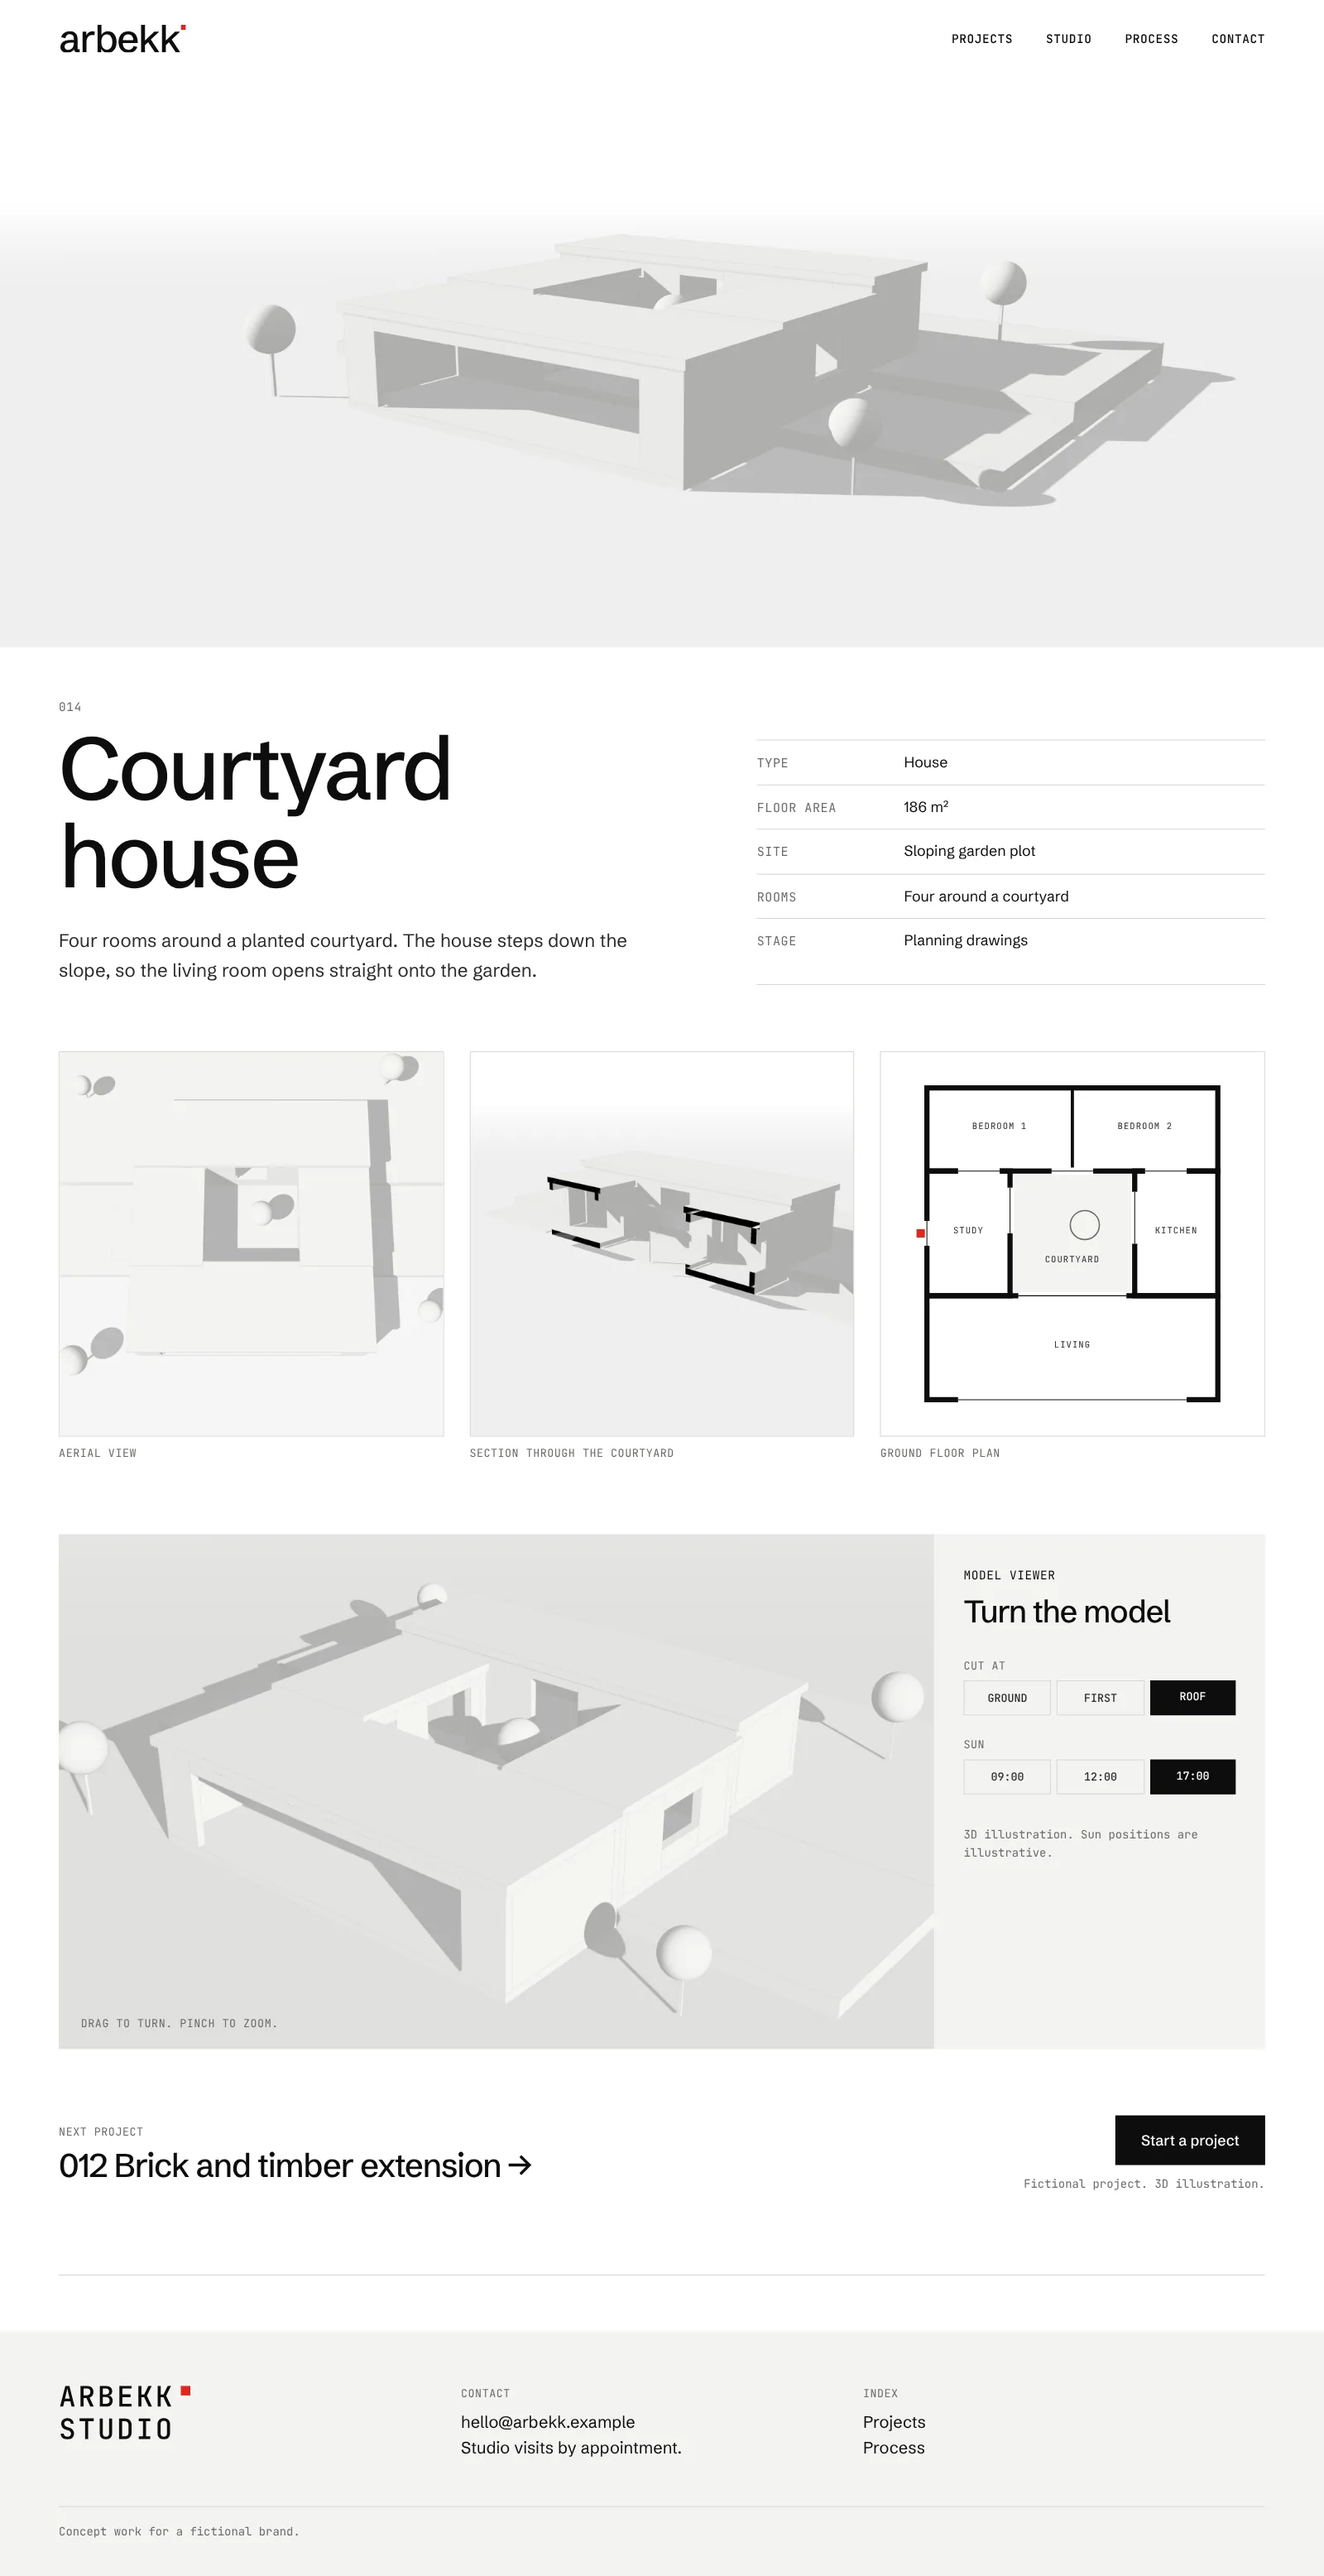
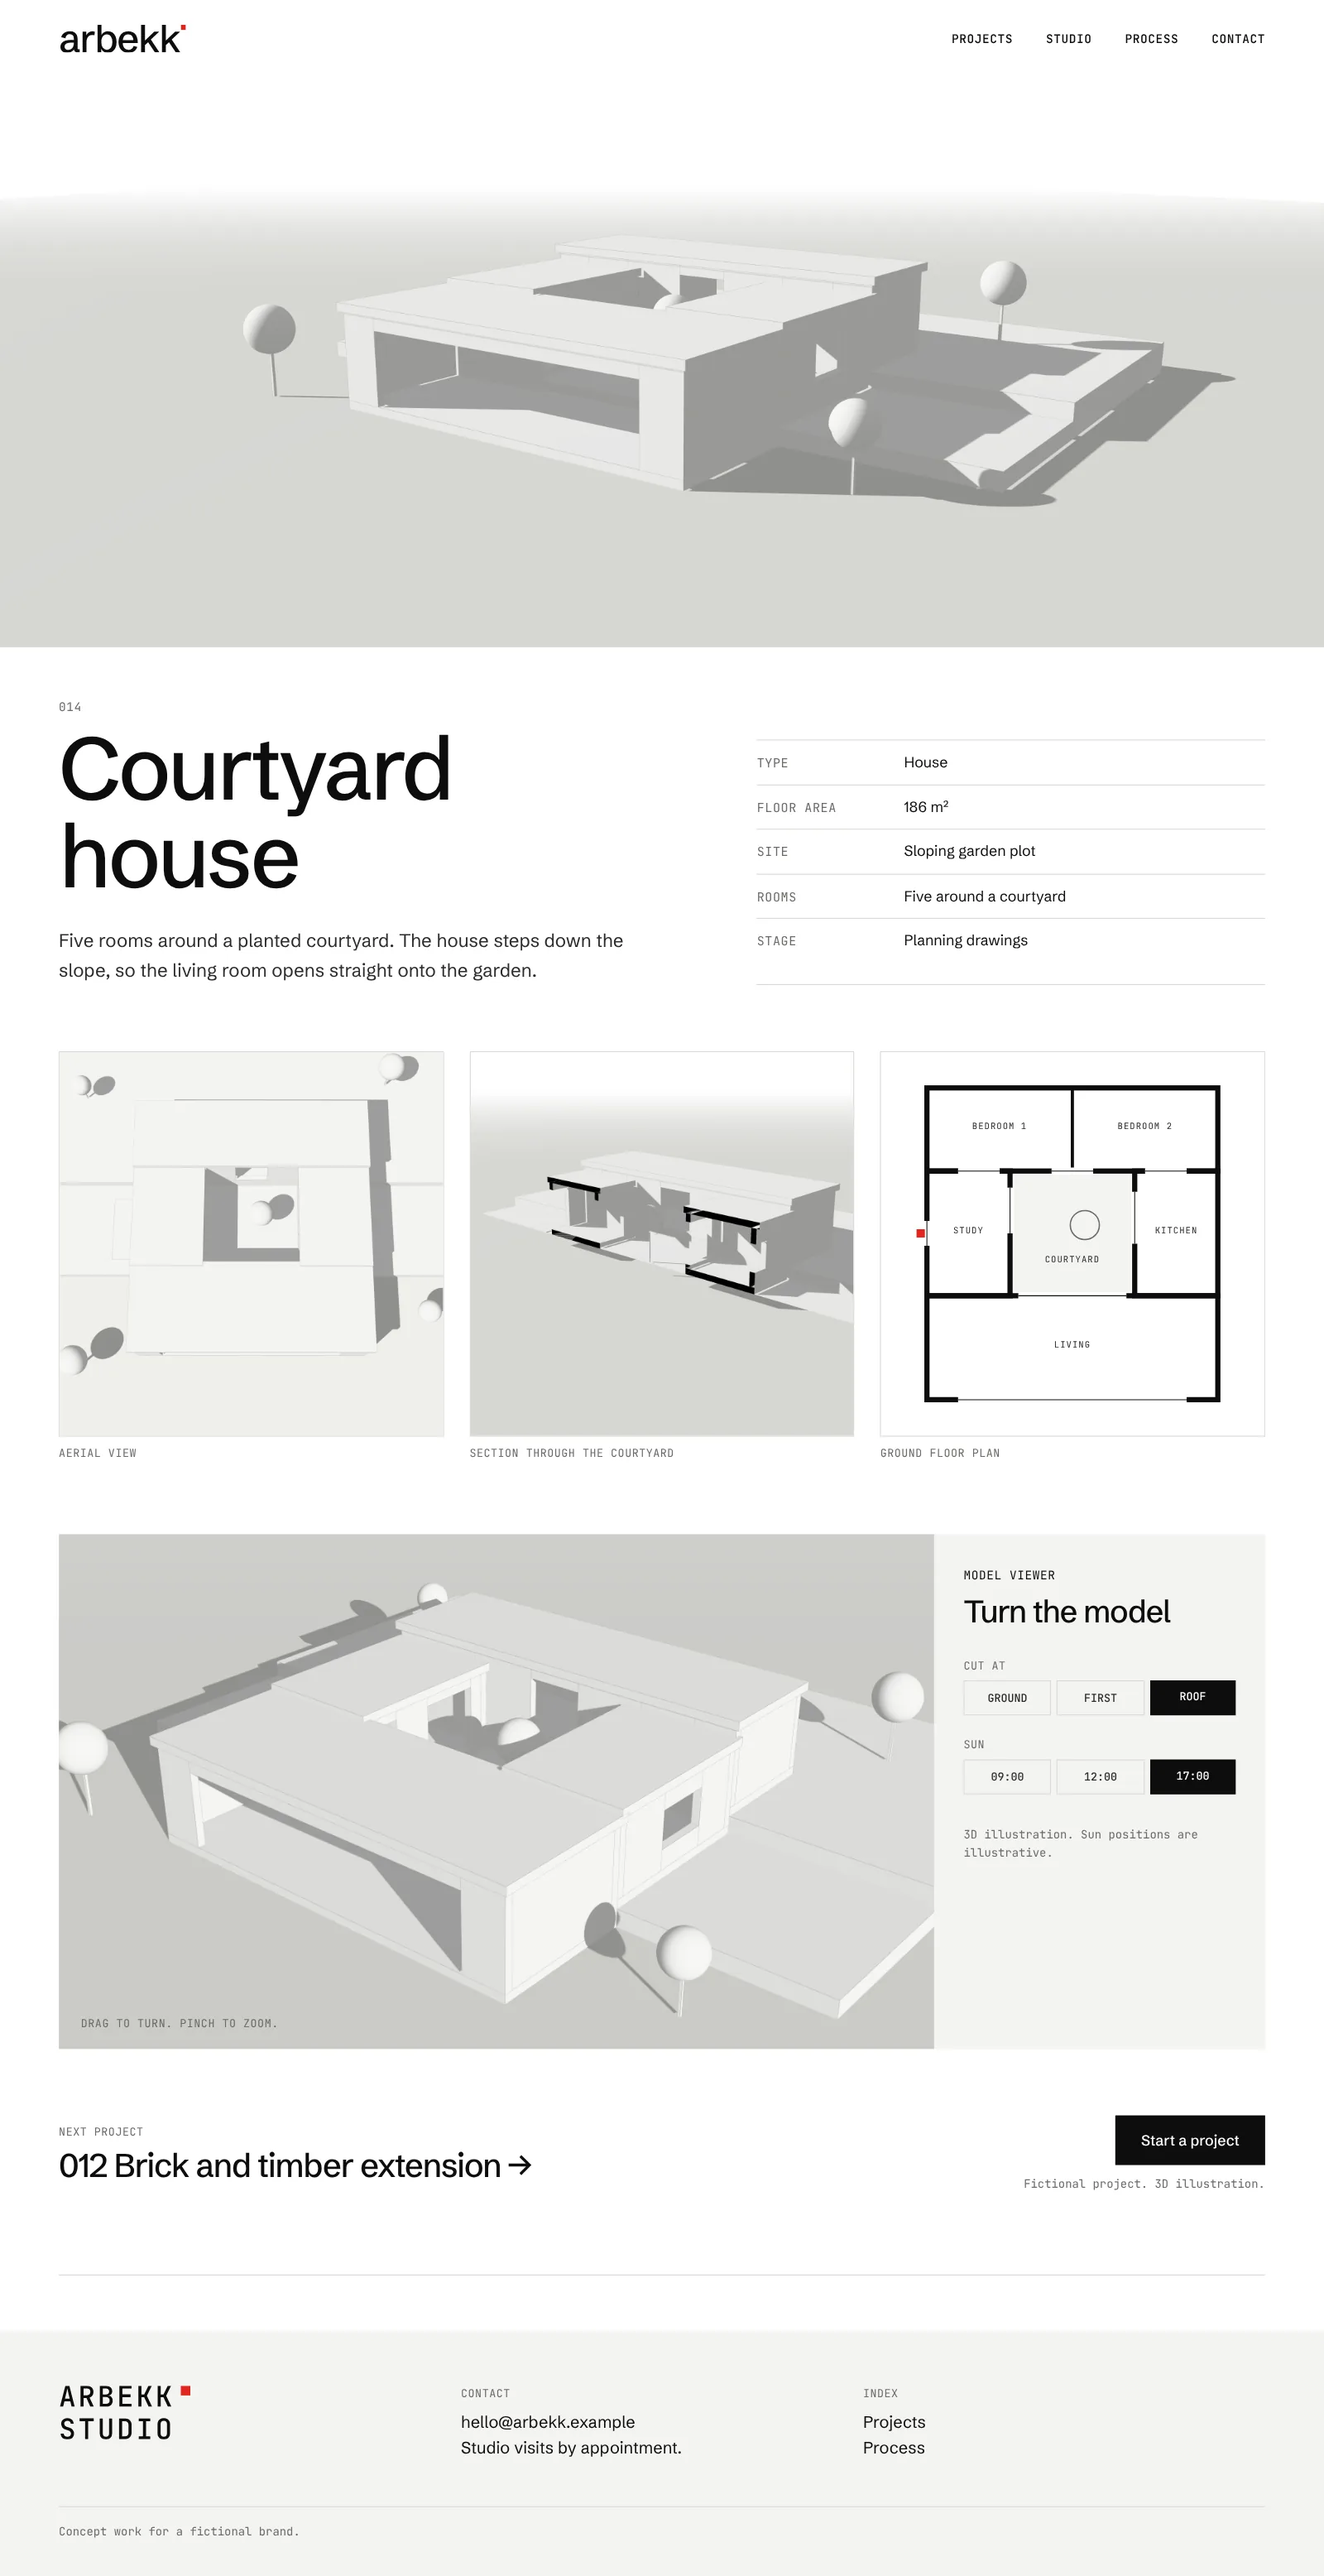
fix(library): Ostrak and Arbekk review fixes
Ostrak: the Your build screen, phone mockup, share image and alt text say
the roof trusses arrive Tuesday, matching the Plan screen and folder;
the quote folder has a contact shadow and flatter perspective; no blank
strip at the foot of the folder mockup; the share render fills its panel.
Arbekk: five rooms around the courtyard (matching the plan) on the
project screen, the 014 page and in the alt text; the white models sit on
a darker ground with stronger shadows and edges; no blank strip at the
foot of the phone mockup.

Claude-Session: https://claude.ai/code/session_01WkeDygKZkdagQyb19AoP7U

diff --git a/src/content/library.js b/src/content/library.js
@@ -120,7 +120,7 @@ export const library = [
       "Every build is shown in stages and weeks, in plain building words, with example timelines and no promises about dates or prices.",
     ],
     mobile: [
-      phone("ostrak", "build", 'Ostrak\'s Your build screen: a rear extension, 14 weeks (example), a stage bar at Roof, week 6 of 14, "Roof trusses arrive Thursday." and a 3D illustration at week 6.'),
+      phone("ostrak", "build", 'Ostrak\'s Your build screen: a rear extension, 14 weeks (example), a stage bar at Roof, week 6 of 14, "Roof trusses arrive Tuesday." and a 3D illustration at week 6.'),
       phone("ostrak", "plan", "Ostrak's Plan screen for the week of Mon 18 Jan: five day rows from wall plates to no work at the weekend, a side-gate note and the site lead, Tomas."),
       phone("ostrak", "choices", 'Ostrak\'s Choices screen: "Two choices due Fri 22 Jan", window frames in charcoal or white, one large or two small roof lights (+$420), and an agreed $85 socket. Example prices.'),
       phone("ostrak", "request", 'Ostrak\'s Request a site visit form: "Tell us about your project.", five project chips, rough size, start date, street and drawings, and an amber button.'),
@@ -215,7 +215,7 @@ export const library = [
     ],
     mobile: [
       phone("arbekk", "projects", "Arbekk's Projects screen: filter chips with ALL marked by a red square, and five fictional projects with white model thumbnails, from 014 Courtyard house to 006 Village hall extension."),
-      phone("arbekk", "project", "Arbekk's 014 Courtyard house screen: a white 3D model, a facts table (house, 186 m², sloping garden plot, four rooms, planning drawings) and a Turn the model button."),
+      phone("arbekk", "project", "Arbekk's 014 Courtyard house screen: a white 3D model, a facts table (house, 186 m², sloping garden plot, five rooms around a courtyard, planning drawings) and a Turn the model button."),
       phone("arbekk", "viewer", "Arbekk's model viewer: the courtyard house cut at ground level, with a red dot at the entrance, and CUT AT and SUN controls set to GROUND and 17:00."),
       phone("arbekk", "start", 'Arbekk\'s Start a project form: "Tell us what you\'re planning.", five monospace chips, three fields with underlines and a square black Send button.'),
     ],
